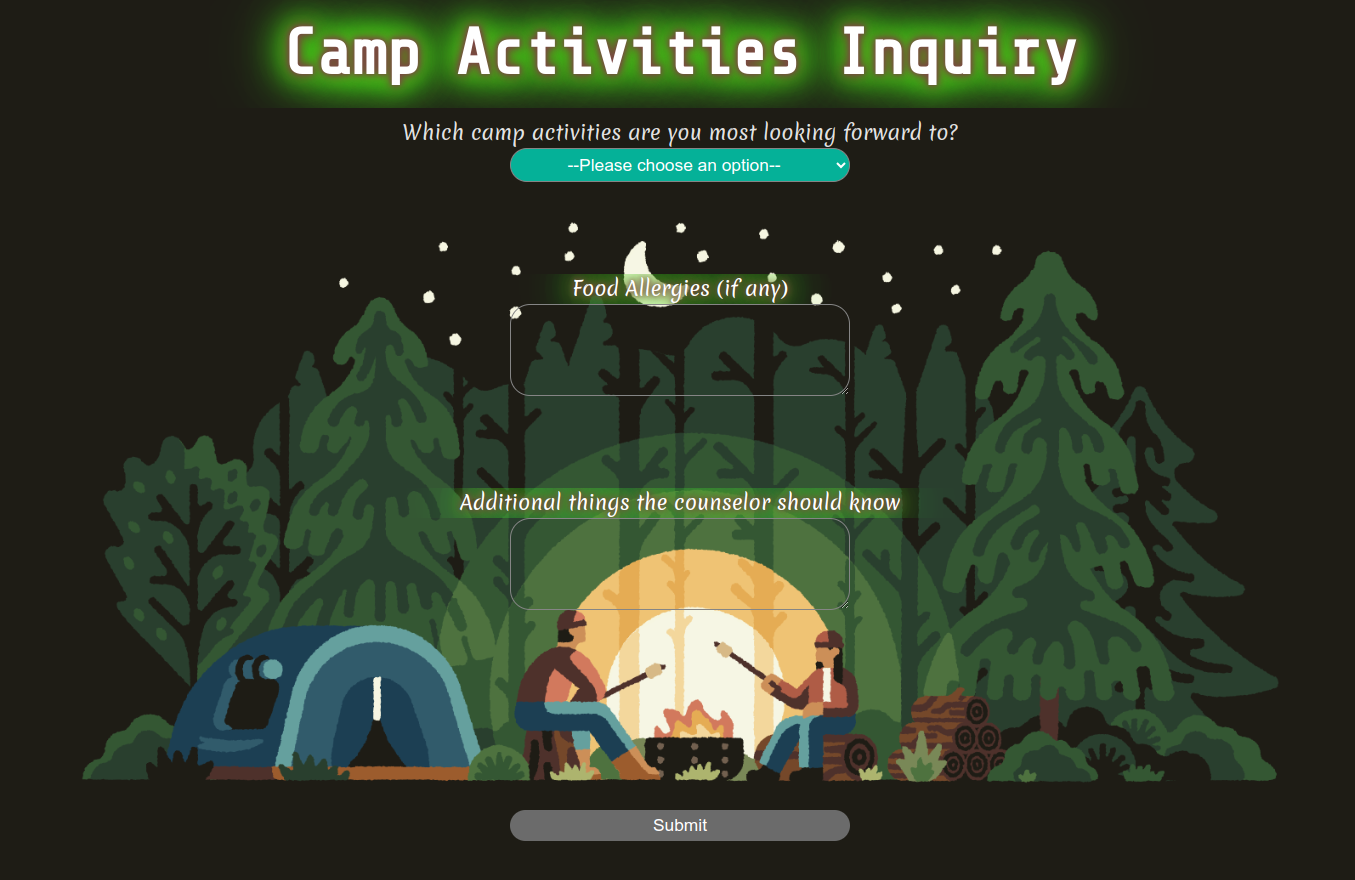
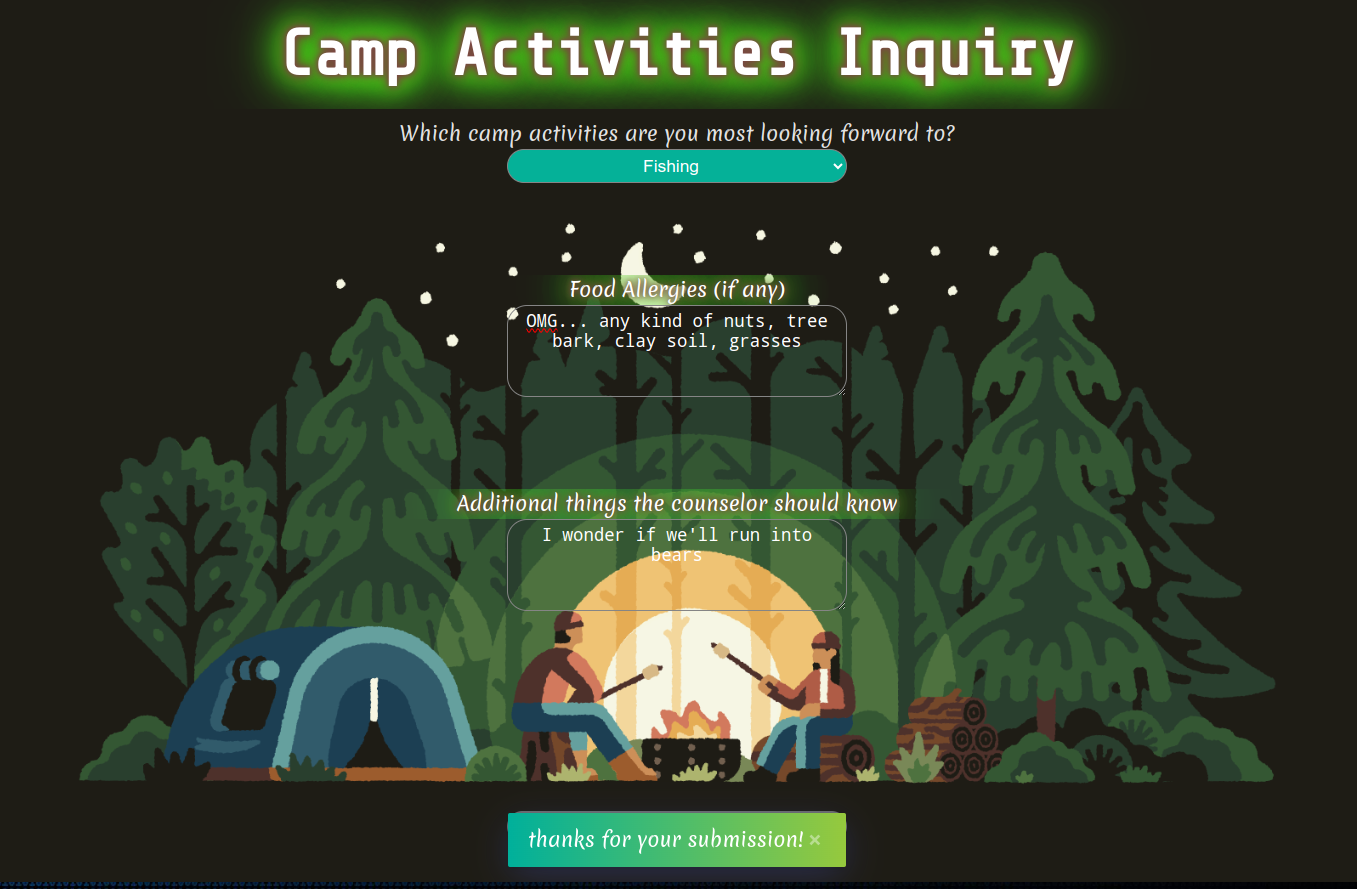
glamp it up

diff --git a/main.js b/main.js
@@ -7,7 +7,7 @@ submitButton.addEventListener('click', (e) => {
     e.preventDefault()
     Toastify({
         text: "thanks for your submission!",
-        duration: 8000,
+        duration: 20000,
         destination: "https://github.com/apvarun/toastify-js",
         newWindow: true,
         close: true,

diff --git a/README.md b/README.md
@@ -3,8 +3,10 @@ _This is a submission for DEV Challenge v24.03.20, Glam Up My Markup: Camp Activ
 ## What I Built
 
 <!-- Tell us what you built and what you were looking to achieve. -->
-- creation: short inquiry for camping
-- aims: catch atmosphere and make "boring" form somehow interesting, if not sexy
+I built an inquiry web app for camping activities using the starter code with vite vanilla javascript. 
+I was aiming to capture the atmosphere of a possible user and make a "boring" form somehow interesting. Therefore I used a background image by [text](https://dribbble.com/shots/23462220-Oregon-State-Park-Mini-Scenes). I 
+
+
 
 j## Demo
 <!-- Show us your project! You can directly embed an editor into this post (see the FAQ section from the challenge page) or you can share an image of your project and share a public link to the code. -->
@@ -12,7 +14,6 @@ j## Demo
 ## Journey
 <!-- Tell us about your process, what you learned, anything you are particularly proud of, what you hope to do next, etc. -->
 
-<!-- Team Submissions: Please pick one member to publish the submission and credit teammates by listing their DEV usernames directly in the body of the post. -->
 
 <!-- We encourage you to consider adding a license for your code. -->
 
